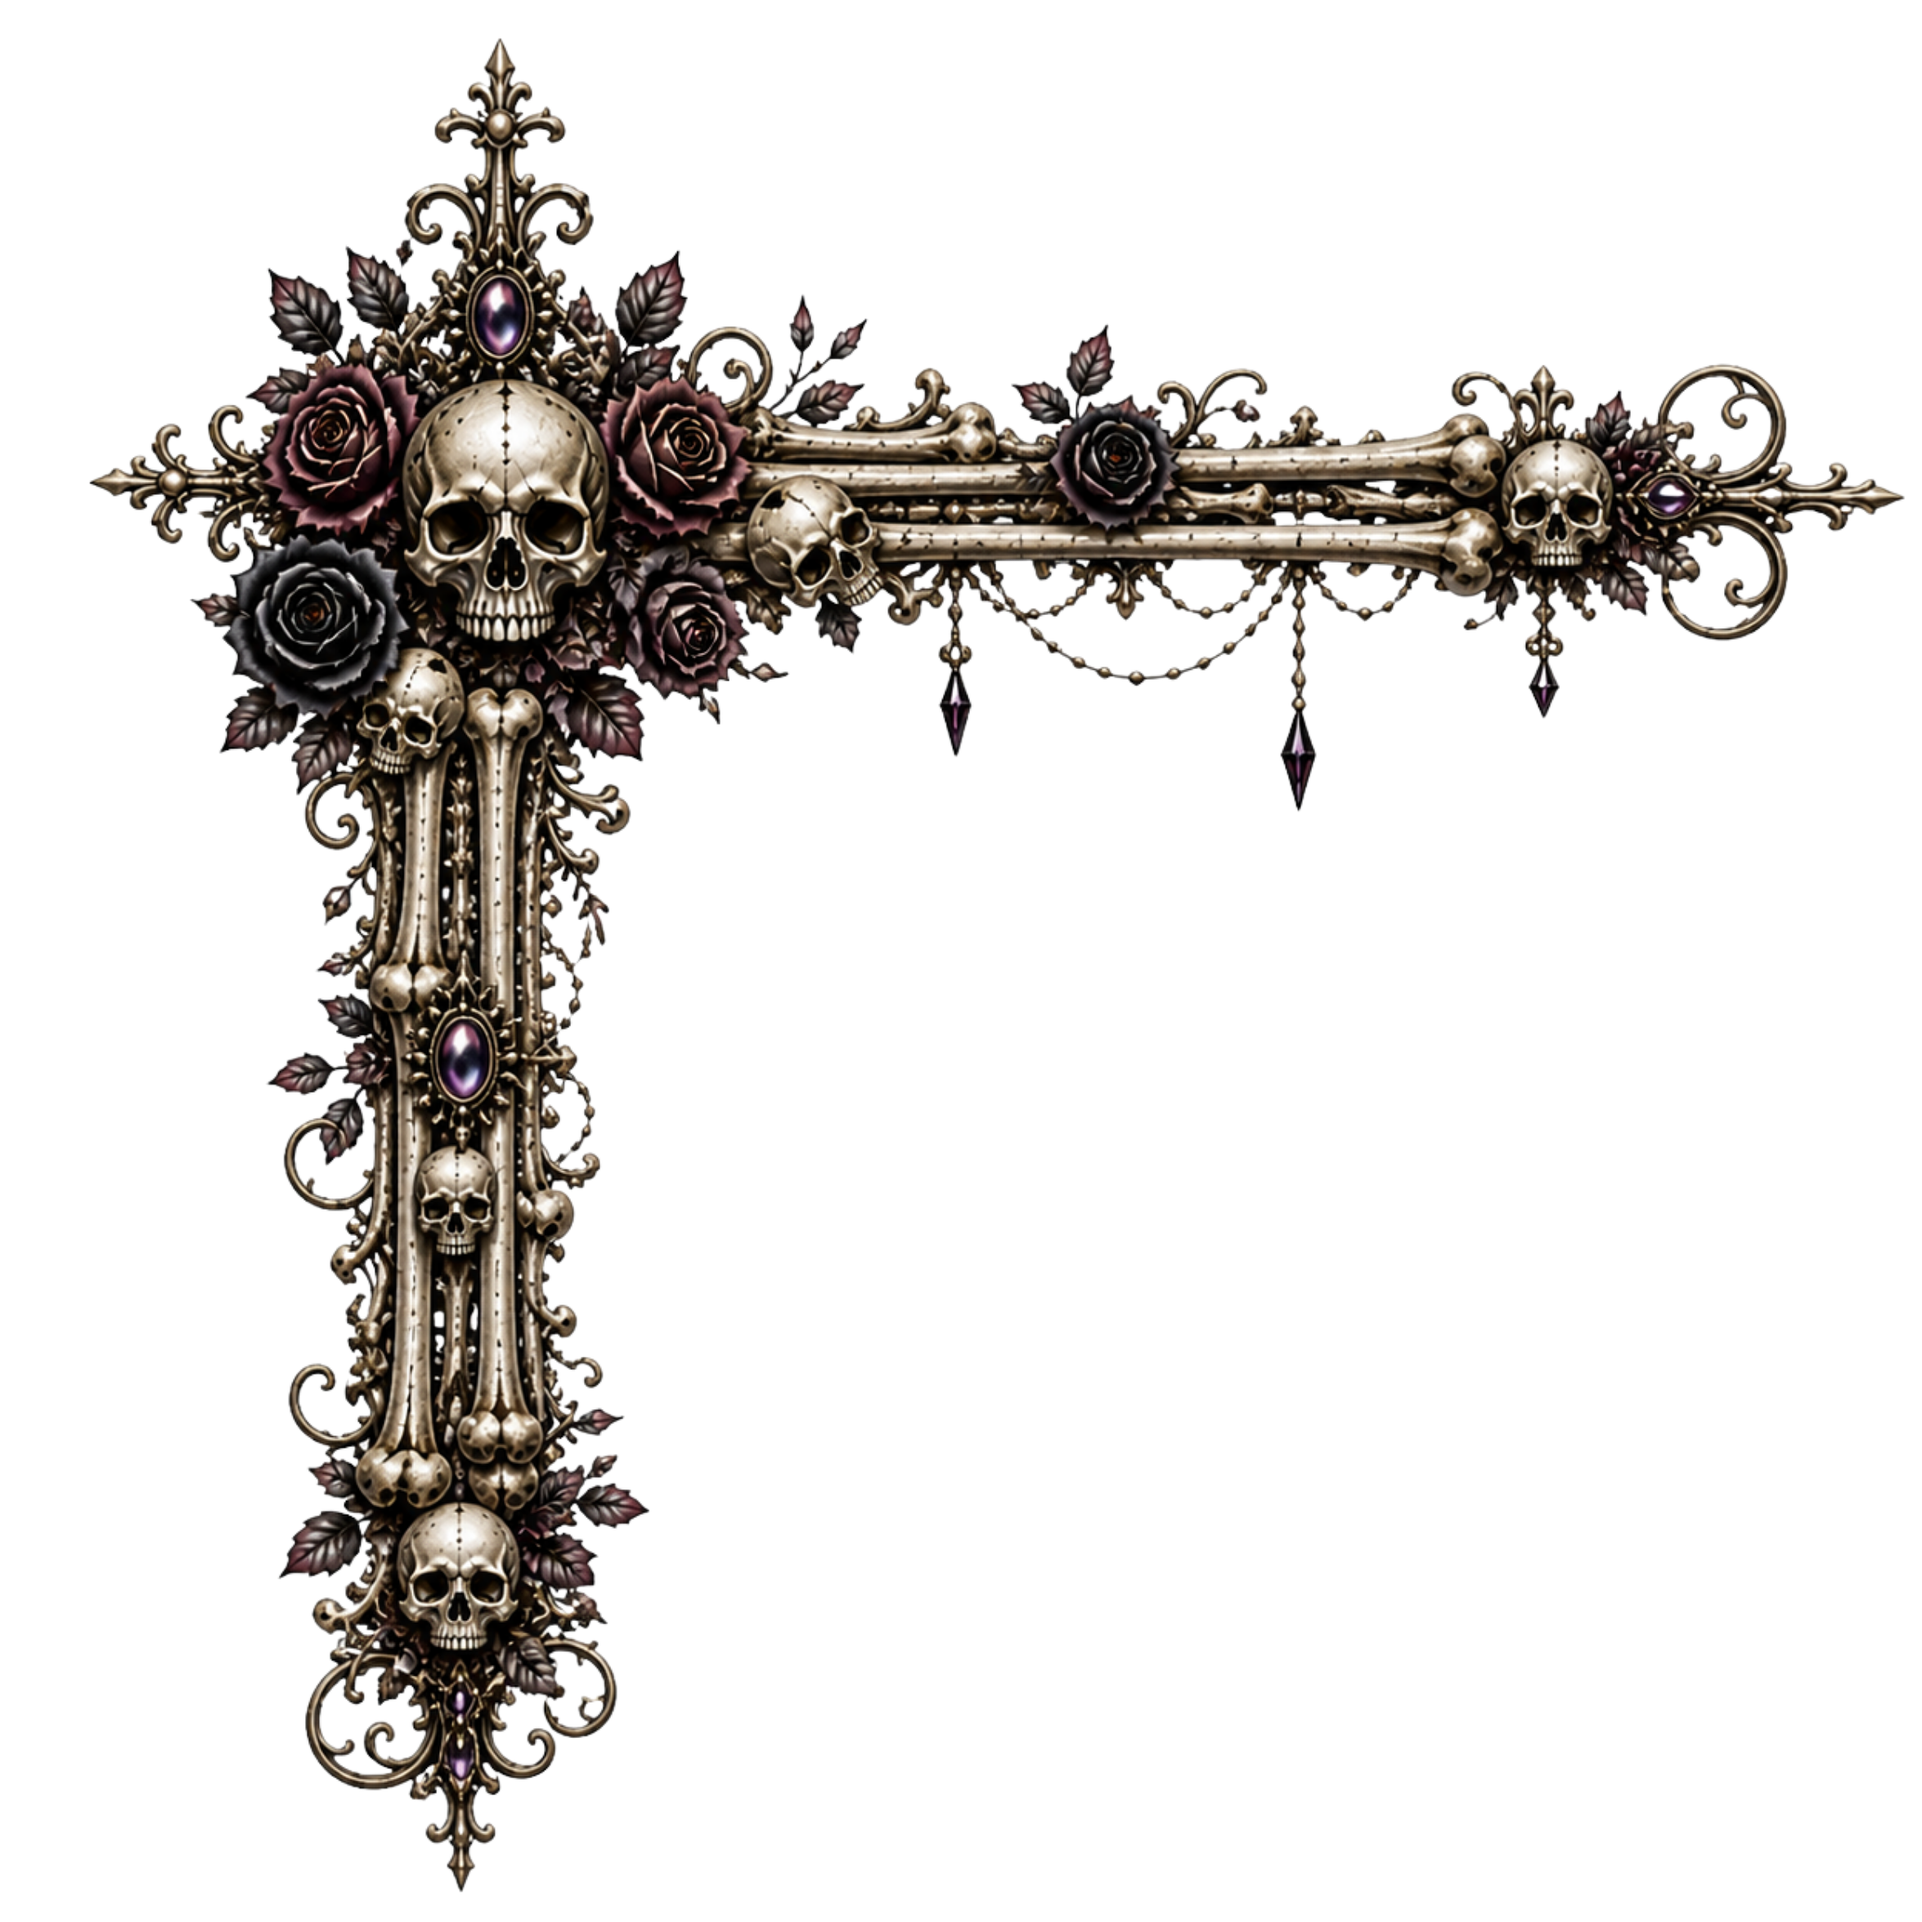
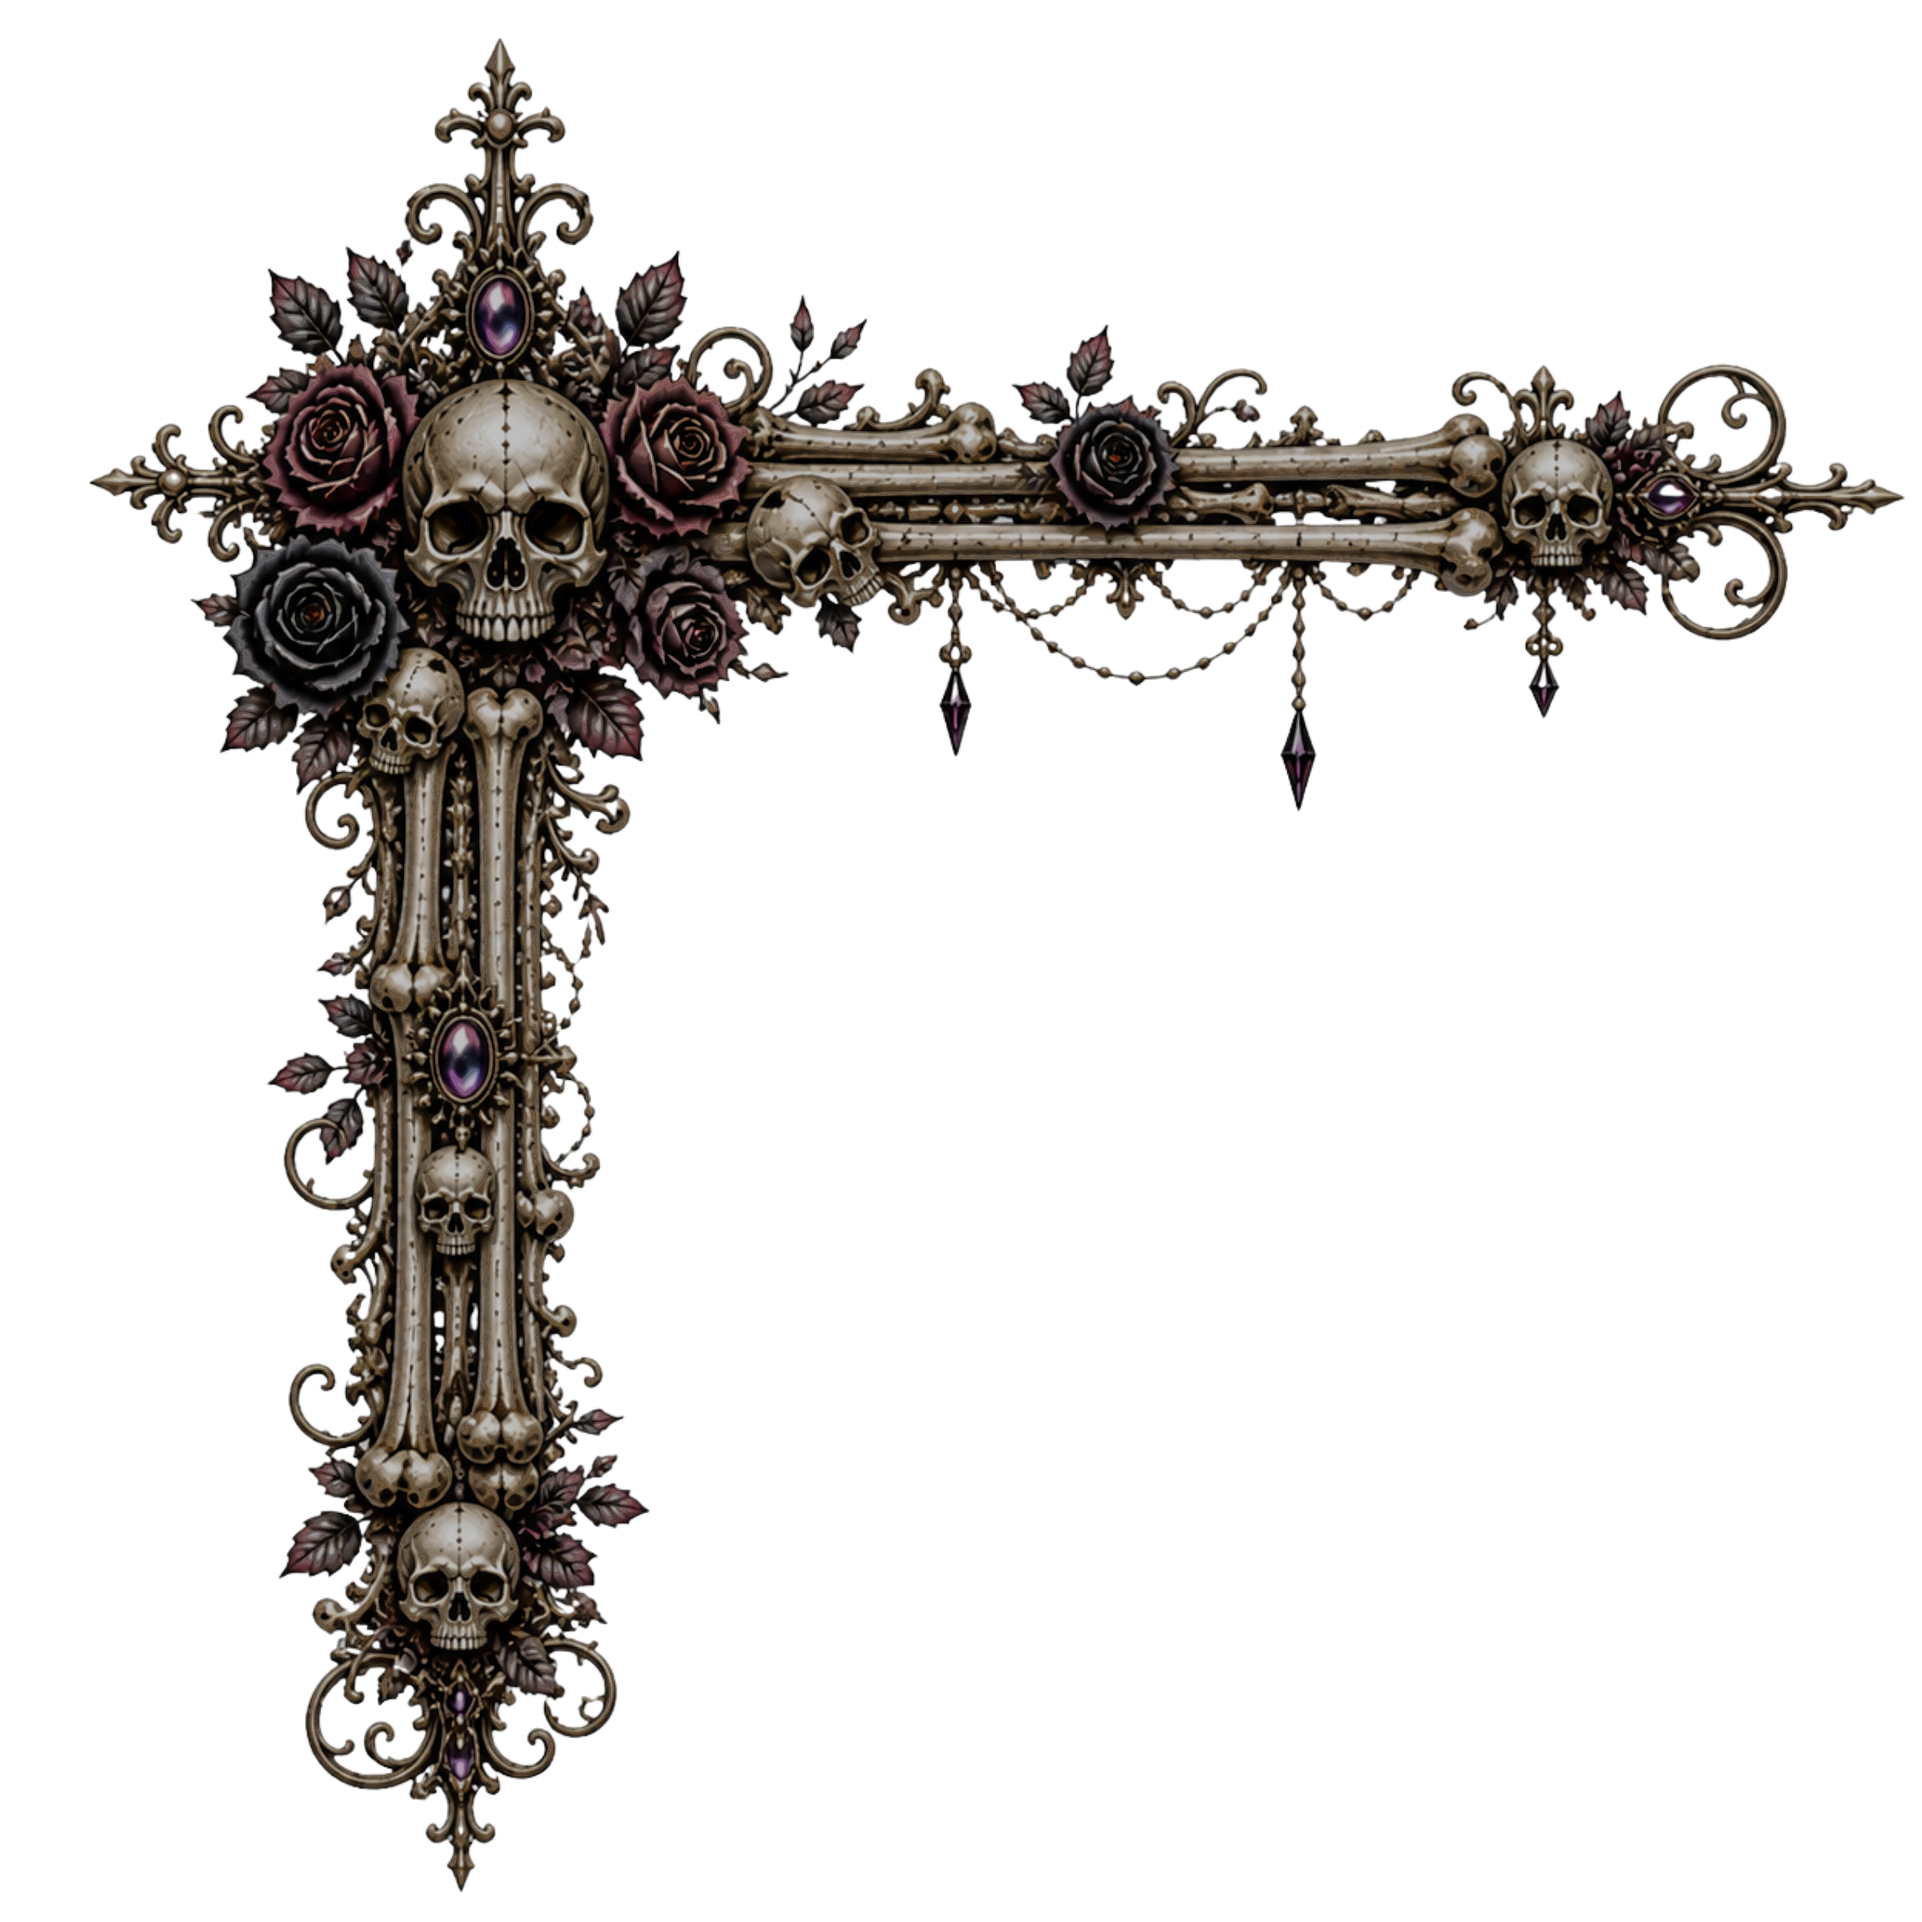
feat: implement ceremony page, add global auth middleware, and integrate decorative assets and components

Changed region(s): [[0.0621, 0.0311, 0.994, 0.963]]

diff --git a/app/components/DecorativeDivider.vue b/app/components/DecorativeDivider.vue
@@ -15,12 +15,10 @@
 const props = defineProps({
     variant: {
         type: String,
-        default: "gothic-jewel",
+        default: "skull-roses",
         validator: (v) =>
             [
-                "gothic-jewel",
                 "skull-roses",
-                "gothic-jewel-bottom",
                 "skull-roses-top",
             ].includes(v),
     },
@@ -32,15 +30,12 @@ const props = defineProps({
 });
 
 const imageMap = {
-    "gothic-jewel": "/img/frames/horizontal_banner_center_gothic_jewel.png",
     "skull-roses": "/img/frames/horizontal_banner_center_skull_roses.png",
-    "gothic-jewel-bottom":
-        "/img/frames/horizontal_border_bottom_gothic_jewel_1.png",
     "skull-roses-top": "/img/frames/horizontal_border_top_skulls_roses.png",
 };
 
 const imageSrc = computed(
-    () => imageMap[props.variant] || imageMap["gothic-jewel"],
+    () => imageMap[props.variant] || imageMap["skull-roses"],
 );
 </script>
 
@@ -50,7 +45,6 @@ const imageSrc = computed(
     justify-content: center;
     align-items: center;
     width: 100%;
-    height: 142px;
     pointer-events: none;
     user-select: none;
     overflow: hidden;
@@ -61,57 +55,57 @@ const imageSrc = computed(
     width: 100%;
     height: auto;
     object-fit: contain;
-    filter: brightness(0.9) saturate(1)
-        drop-shadow(0 6px 15px rgba(0, 0, 0, 0.8));
+    filter: brightness(1.15) saturate(0.85) contrast(1.0)
+        drop-shadow(0 4px 10px rgba(0, 0, 0, 0.7));
     opacity: 0.95;
     transition: opacity 0.4s ease;
 }
 
 /* Size variants */
 .decorative-divider--sm .divider-image {
-    max-width: 320px;
+    max-width: 480px;
 }
 
 .decorative-divider--md .divider-image {
-    max-width: 650px;
+    max-width: 960px;
 }
 
 .decorative-divider--lg .divider-image {
-    max-width: 900px;
+    max-width: 1160px;
 }
 
 /* Spacing */
 .decorative-divider--sm {
-    margin: 1rem auto 0.25rem;
+    margin: 0.35rem auto 0.05rem;
 }
 
 .decorative-divider--md {
-    margin: 1.5rem auto 0.5rem;
+    margin: 0.5rem auto 0.05rem;
 }
 
 .decorative-divider--lg {
-    margin: 2rem auto 0.75rem;
+    margin: 0.75rem auto 0.05rem;
 }
 
 /* Responsive: scale down on mobile */
 @media (max-width: 768px) {
     .decorative-divider--sm .divider-image {
-        max-width: 150px;
+        max-width: 240px;
     }
     .decorative-divider--md .divider-image {
-        max-width: 220px;
+        max-width: 460px;
     }
     .decorative-divider--lg .divider-image {
-        max-width: 320px;
+        max-width: 600px;
     }
     .decorative-divider--sm {
-        margin: 0.75rem auto 0.15rem;
+        margin: 0.2rem auto 0.05rem;
     }
     .decorative-divider--md {
-        margin: 1rem auto 0.25rem;
+        margin: 0.3rem auto 0.05rem;
     }
     .decorative-divider--lg {
-        margin: 1.25rem auto 0.4rem;
+        margin: 0.4rem auto 0.05rem;
     }
 }
 </style>

diff --git a/app/pages/index.vue b/app/pages/index.vue
@@ -152,9 +152,6 @@
             </GlassCard>
         </section>
 
-        <!-- Decorative section divider -->
-        <DecorativeDivider variant="gothic-jewel" size="md" />
-
         <!-- Gallery Carousel Section -->
         <section class="section container gallery-section">
             <h2 class="text-center mb-md">Gallery</h2>
@@ -249,9 +246,8 @@ const daysRemainingText = computed(() => {
     pointer-events: none; /* Let clicks pass through to nav links/buttons underneath */
     z-index: 5;
     background-repeat: no-repeat;
-    filter: brightness(
-        0.7
-    ); /* Reduce brightness to blend with the dark background */
+    filter: brightness(1.1) saturate(0.8) contrast(1.0) drop-shadow(0 8px 25px rgba(0, 0, 0, 0.8));
+    opacity: 0.95;
 }
 
 .frame-decor--left {

diff --git a/app/layouts/default.vue b/app/layouts/default.vue
@@ -487,7 +487,7 @@ watchEffect(() => {
   max-width: 500px;
   height: auto;
   object-fit: contain;
-  filter: brightness(0.85) saturate(0.9) drop-shadow(0 6px 15px rgba(0, 0, 0, 0.8));
+  filter: brightness(1.1) saturate(0.8) contrast(1.0) drop-shadow(0 4px 10px rgba(0, 0, 0, 0.7));
   opacity: 0.95;
 }
 

diff --git a/app/pages/ceremony.vue b/app/pages/ceremony.vue
@@ -84,10 +84,7 @@
         </ul>
       </GlassCard>
 
-      <!-- Decorative divider -->
-      <div class="full-width divider-row">
-        <DecorativeDivider variant="gothic-jewel" size="sm" />
-      </div>
+
 
       <!-- After Party -->
       <GlassCard class="after-party full-width">
